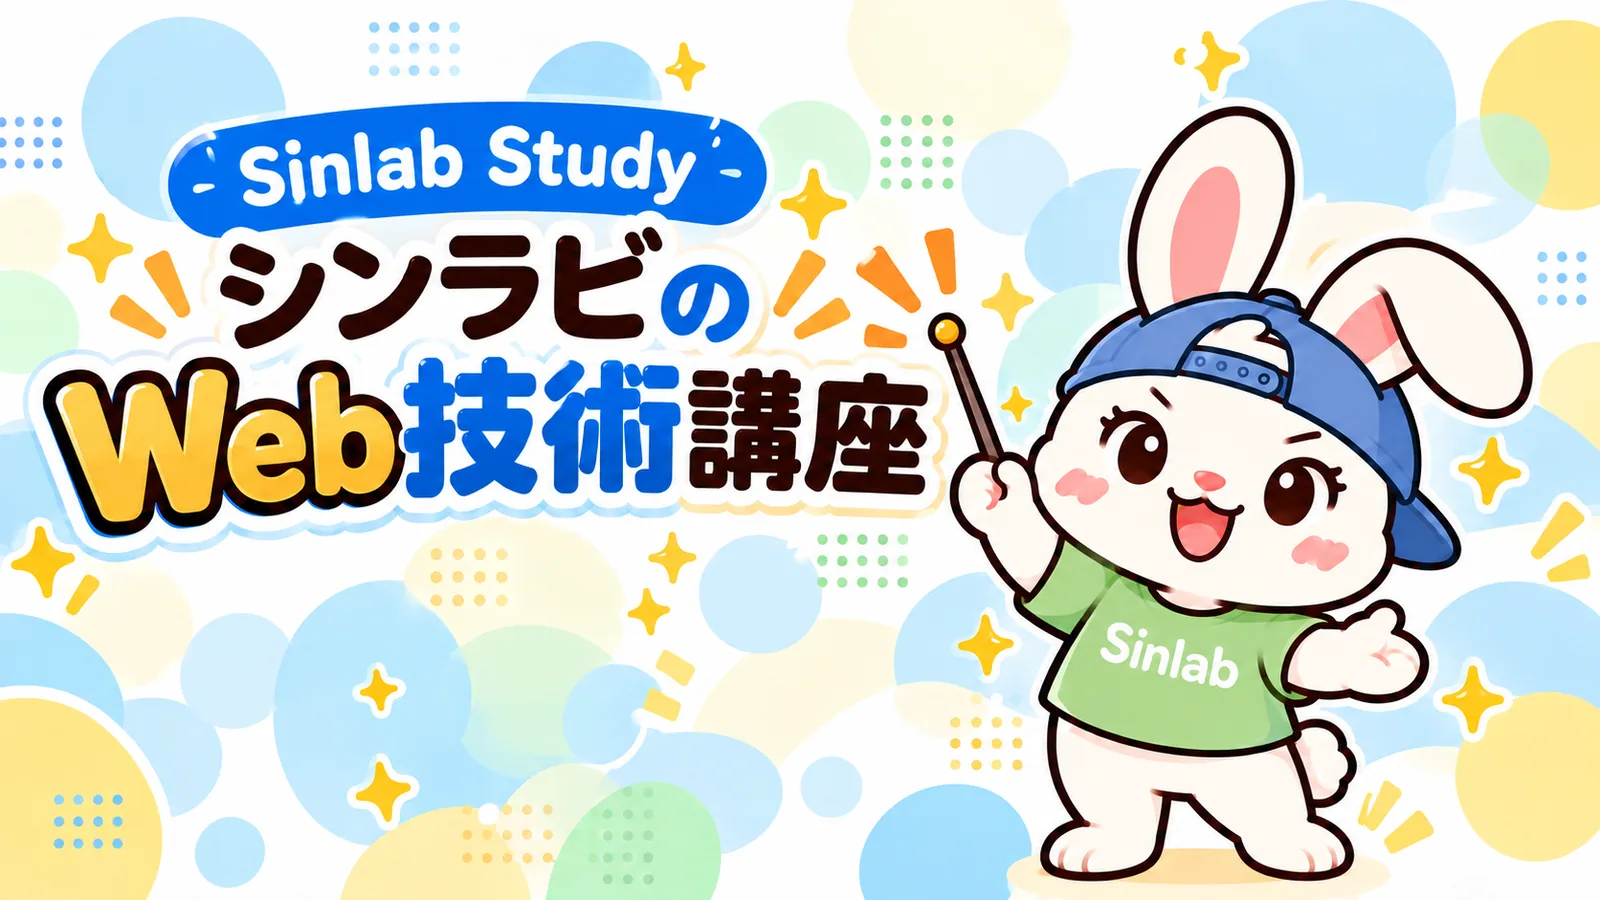
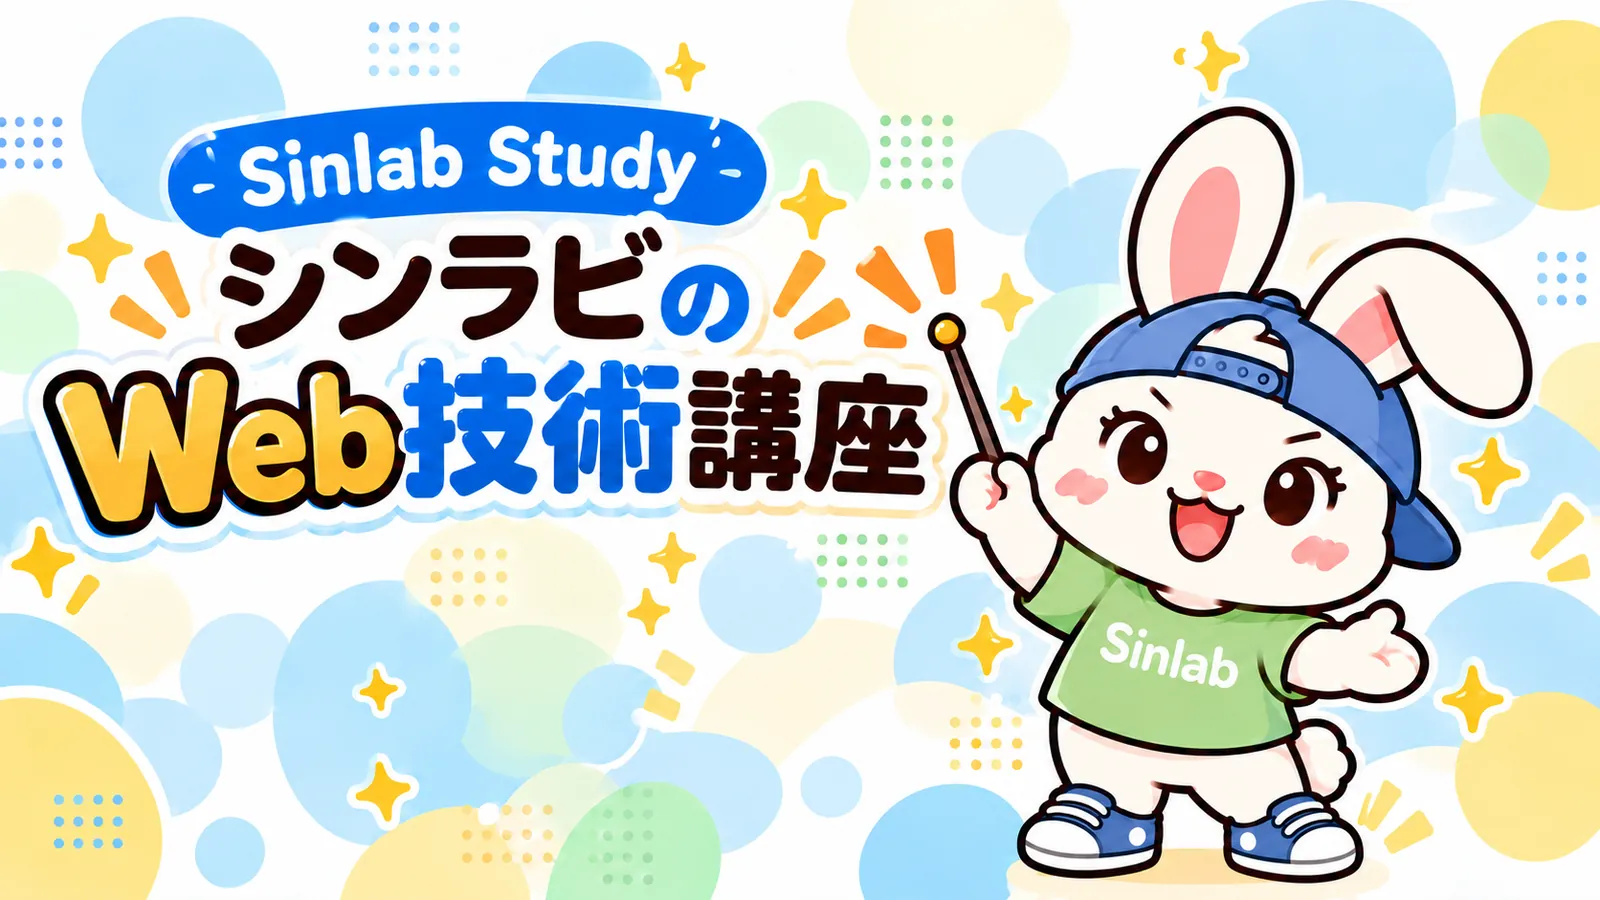
fix: replace home hero with shoes-on mascot image and stop cropping it
Claude-Session: https://claude.ai/code/session_01VQFfagWcrwxFnWdDaMdvnY

diff --git a/app/(authenticated)/components/HomeHero.tsx b/app/(authenticated)/components/HomeHero.tsx
@@ -10,16 +10,15 @@ export function HomeHero({ displayName }: HomeHeroProps) {
 
   return (
     <section className="mb-6">
-      {/* Full 16:9 below lg so the baked-in title is never cropped; from lg it is capped in height
-          (cropping the mascot's lower body, which carries no text) so the cards below stay near the first view. */}
-      <div className="relative aspect-video w-full overflow-hidden rounded-xl border lg:aspect-[8/3]">
+      {/* Never crop: the title is baked into the image and the mascot's shoes sit at the bottom edge. */}
+      <div className="relative aspect-video w-full overflow-hidden rounded-xl border">
         <Image
           src="/images/home/hero.webp"
           alt=""
           fill
           priority
           sizes="(min-width: 1024px) 896px, 100vw"
-          className="object-cover object-[50%_20%]"
+          className="object-cover"
         />
       </div>
       <h1 className="mt-4 text-2xl font-bold tracking-tight sm:text-3xl break-words">

diff --git a/docs/specification.md b/docs/specification.md
@@ -596,7 +596,7 @@ upsert は既存行がある場合 UPDATE 経路を通るため、RLS側も INSE
 
 **学習中テーマ（`app/lib/theme-progress.ts`）**: 受講テーマを選ぶ仕組みは持たず、完了実績から判定する。`isActiveTheme()` は完了が1件以上で修了（100%。修了証の `isThemeCompleted()` と同じ定義）に達していないこと（trial は上記の分母のまま判定）。`splitThemesByActivity()` が **学習中**（完了1件以上で100%未満。完了率の高い順）/ **修了**（100%）/ **未着手**（完了0件。`display_order` 順）に分ける。判定はこの1か所に置き、ホーム・週次進捗メール（10.7節）・将来の修了証一覧が共有する。
 
-**ホームの見出し（#441）**: 先頭にコンテンツ幅いっぱいのバナー画像（`public/images/home/hero.webp`、16:9、装飾の位置付け）を置き、その直下に `h1`「おかえりなさい、{表示名}さん」と補助文を出す（`HomeHero`）。画像は `lg` 未満は16:9のまま、`lg` 以上は高さを抑えるため8:3に切り抜く（下側＝マスコットの下半身を落とす。題字は切れない）。表示名は `fetchUserDisplayName()`（通常クライアント）で取り、取得できないとき・空のときは名前なしの「おかえりなさい」にする（ホーム全体は失敗させない）。
+**ホームの見出し（#441）**: 先頭にコンテンツ幅いっぱいのバナー画像（`public/images/home/hero.webp`、16:9、装飾の位置付け）を置き、その直下に `h1`「おかえりなさい、{表示名}さん」と補助文を出す（`HomeHero`）。画像は全幅で16:9のまま表示し、切り抜かない（題字とマスコットの靴が画像の端近くにあるため）。表示名は `fetchUserDisplayName()`（通常クライアント）で取り、取得できないとき・空のときは名前なしの「おかえりなさい」にする（ホーム全体は失敗させない）。
 
 **ホーム（`/`）**: 見出しは上記の挨拶文（`HomeHero`）。見出し直後にクイックリンクを小さめ1行（`/learn`・`/announcements`。サイドナビがドロワーに隠れるスマホ向け。プラン導線は設定配下。#394）。主役は「続きから学習」カード（`resolveContinueLearning()`。`last_viewed_at` が最大のコンテンツを基準にし、未完了ならそのコンテンツ、完了済みなら同テーマ学習順の次の未完了、テーマ修了なら次テーマの先頭未完了。閲覧記録が1件も無いときは #370 の完了基準（最後に完了したテーマの学習順先頭未完了。完了0件なら最初のテーマの先頭。最後に学んだテーマが修了済みなら並び順で次の未完了テーマ）。全完了なら非表示。カードは進捗バーを出さず「前回: ○月○日」（`last_viewed_at`。記録が無いときは日付なし）を出す。お試しで閲覧可能分をすべて完了したらカードの代わりに「次のステップ」）。続けて学習中のテーマ（`ThemeCard` の横長 `layout="row"`。0件のときは最初の未着手テーマへのリンク）。修了・未着手のテーマ一覧と「学習を始める」ボタンは置かない。テーマ選択は `/learn` に一本化する。`/learn` はテーマをカードのグリッド（`layout="card"`。スマホ1列・`sm` 2列・`lg` 3列、コンテナ `max-w-5xl`）で並べ、上にサムネイル（`aspect-video` / `object-contain`）、下に進捗・説明を置く（#415）。進捗・修了表示の意味はホームと同じ（admin / maintainer の未公開テーマは進捗集計が無いため進捗を出さない）。「はじめかたチェックリスト」の完了判定と、お試しの「次のステップ」カード（全テーマの分母で100%）はテーマをまたいだ判定のため変えない。続きから学習の判定は通常クライアント（RLS）で取得した公開コンテンツと `user_progress` から計算し、service_role は使わない。閲覧の書き込みは `POST /api/progress/view`（Server Component では書かない。可視性は進捗 API と同じ `isContentVisible()`。#396）。
 
